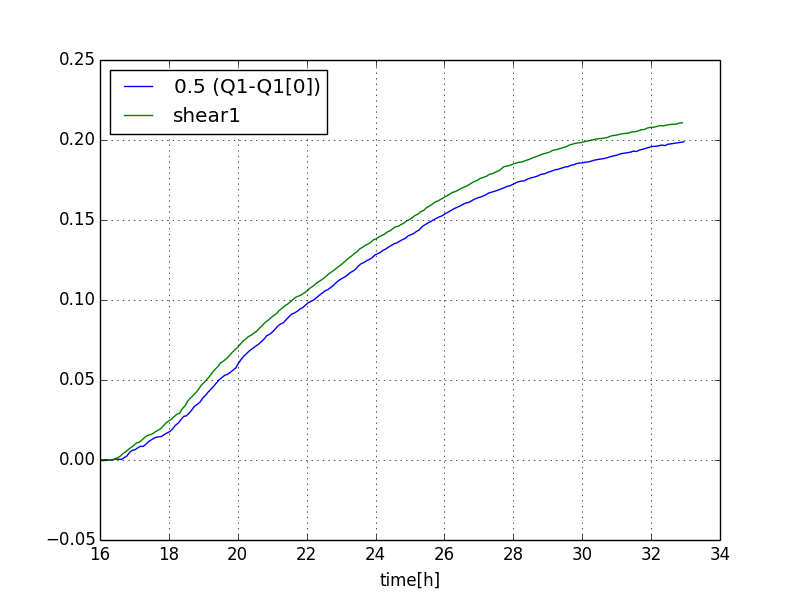
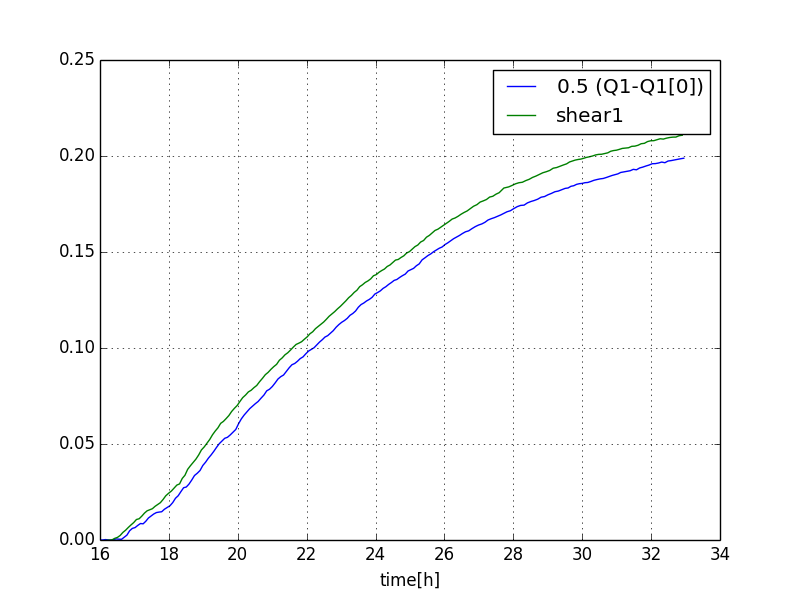
wild types

diff --git a/main.py b/main.py
@@ -19,22 +19,22 @@ def fill_zeros(s,k):
     return s
 
 inPath = '/data/biophys/etournay/'
-inName = 'WT_25deg_111103'
+inName = 'WT_25deg_111102'
 
-Rdata_path = '/home/mpopovic/Documents/Work/Projects/drosophila_wing_analysis/WT_25deg_111103/shear_contrib/'
+Rdata_path = '/home/mpopovic/Documents/Work/Projects/drosophila_wing_analysis/WT_25deg_111102/shear_contrib/'
 triList_name = 'triList.RData'
 Ta_name = 'Ta_t.RData'
 ro.r('load("'+Rdata_path+triList_name+'")')
 triList_df = com.load_data('triList')
 ro.r('load("'+Rdata_path+Ta_name+'")')
 Ta_df = com.load_data('Ta_t')
-ro.r('load("/home/mpopovic/Documents/Work/Projects/drosophila_wing_analysis/WT_25deg_111103/roi_bt/lgRoiInclDead.RData")')
+ro.r('load("/home/mpopovic/Documents/Work/Projects/drosophila_wing_analysis/WT_25deg_111102/roi_bt/lgRoiInclDead.RData")')
 roi_df = com.load_data('lgRoiInclDead')
 roi_balde = roi_df[roi_df['roi']=='blade']
 
 
 inPath = '/data/biophys/etournay/'
-inName = 'WT_25deg_111103'
+inName = 'WT_25deg_111102'
 inDB = inPath+'DB/'+inName+'/'+inName+'.sqlite'
 con = lite.connect(inDB)
 cells_df = psql.frame_query('SELECT * FROM cells WHERE cell_id>10000', con)
@@ -61,12 +61,12 @@ Q2 = Q*np.sin(twophi)
 
 
 
-shear_path = '/home/mpopovic/Documents/Work/Projects/drosophila_wing_analysis/movies_data/wild_type/111103/blade/dualMarginDeformation.dat'
+shear_path = '/home/mpopovic/Documents/Work/Projects/drosophila_wing_analysis/movies_data/wild_type/111102/blade/dualMarginDeformation.dat'
 shear_df = pp.read_csv(shear_path, sep='\t')
 shear1 = np.cumsum(0.5*(shear_df['Delta u_{xx};']-shear_df['Delta u_{yy}']))
 shear2 = np.cumsum(0.5*(shear_df['Delta u_{xy};']+shear_df['Delta u_{yx};']))
 
-Q_time = 16+time_data['time_sec'][:210]/3600
+Q_time = 16+time_data['time_sec'][:201]/3600
 shear_time = (np.array(Q_time[1:])+ np.array(Q_time[:-1]))/2.
 
 
@@ -77,7 +77,7 @@ plt.xlabel('time[h]')
 plt.grid()
 plt.ylim(0,0.25)
 plt.legend(loc = 'best')
-plt.savefig('WT_25deg_111103_shear1_Q1.png')
+plt.savefig('WT_25deg_111102_shear1_Q1.png')
 plt.show()
 
 plt.figure()
@@ -86,5 +86,5 @@ plt.plot(shear_time,shear2, label = 'shear2')
 plt.xlabel('time[h]')
 plt.grid()
 plt.legend(loc='best')
-plt.savefig('WT_25deg_111103_shear2_Q2.png')
+plt.savefig('WT_25deg_111102_shear2_Q2.png')
 plt.show()
